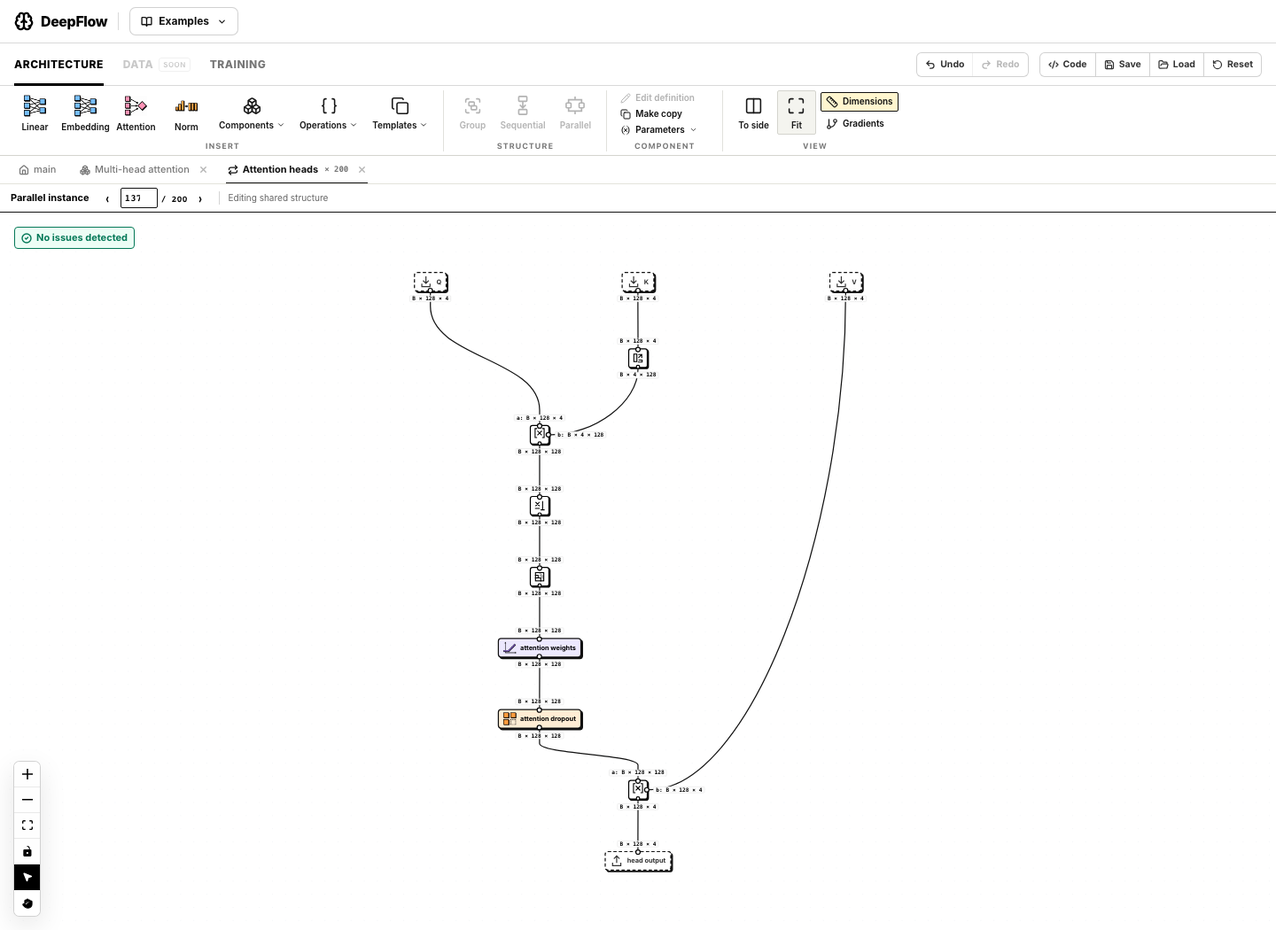
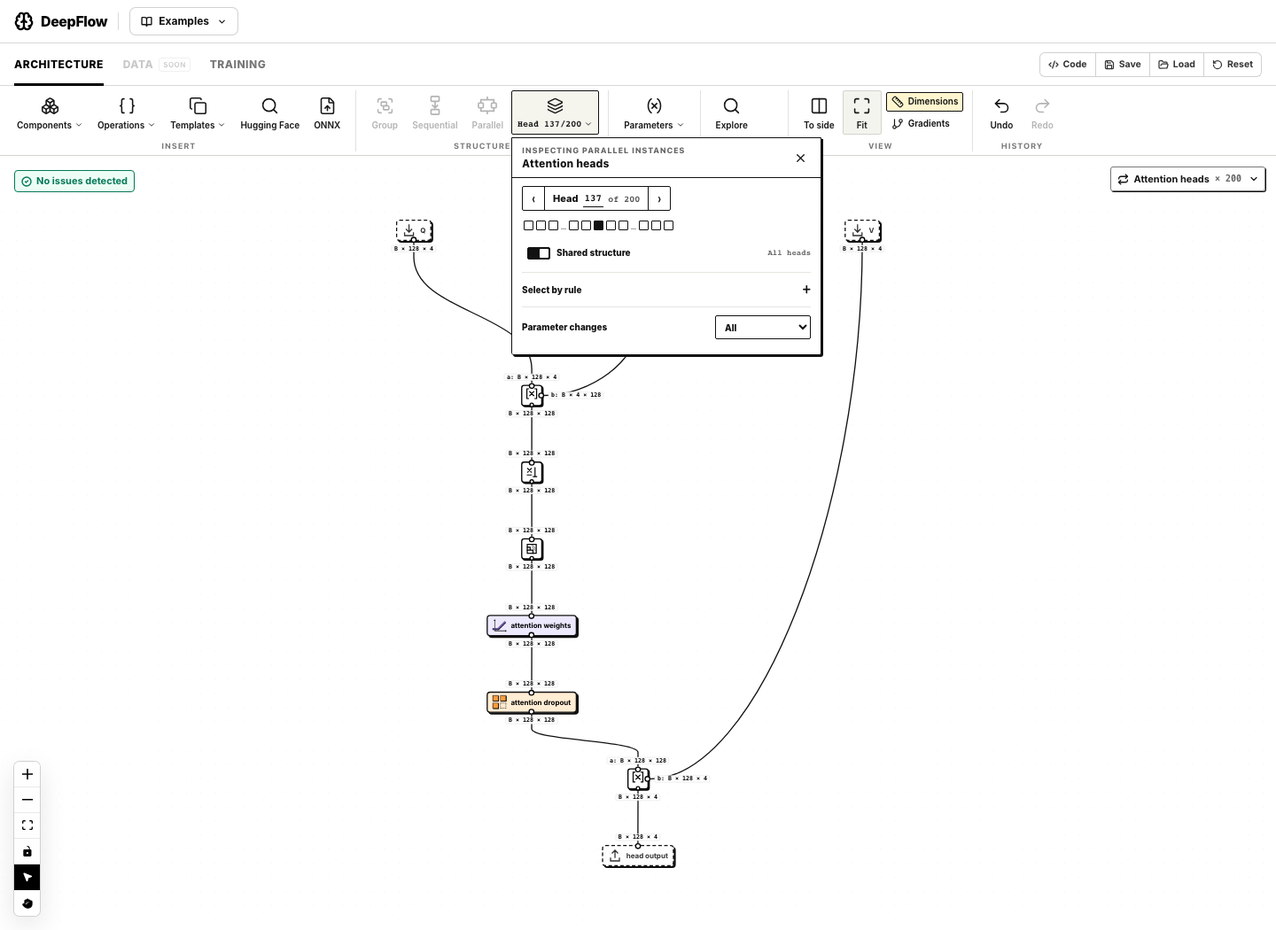
Move repeat instance controls into Structure ribbon

diff --git a/src/components/architecture/repeat-iteration.css b/src/components/architecture/repeat-iteration.css
@@ -1,55 +1,71 @@
-/* Navigator, instance strip, then the change scope, kept together. */
-.df-iteration-bar { display: flex; align-items: center; gap: 8px; flex-wrap: wrap; min-height: 34px; padding: 4px 12px; border-bottom: 1px solid #111; background: #fff; font-size: 11px; }
-.df-iteration-bar.is-local { background: #fffbe6; box-shadow: inset 3px 0 0 #111; }
-.df-iteration-counter { display: inline-flex; align-items: center; border: 1px solid #111; border-radius: 2px; background: #fff; }
-.df-iteration-counter > button { display: grid; place-items: center; width: 22px; height: 24px; padding: 0; font: bold 16px/1 ui-monospace, monospace; }
+/* Repeat controls live in Structure and consume no canvas height. */
+.df-ribbon-instance-button { min-width: 86px; }
+.df-ribbon-instance-button > span { font: 800 10px/1.1 ui-monospace, monospace; }
+.df-ribbon-instance-button.is-local { background: #fff6cf; }
+.df-ribbon-instance-button .df-iteration-button-error { color: #aa1d14; }
+.df-iteration-popover { overflow-y: auto; }
+.df-iteration-panel { width: 100%; min-width: 0; background: #fff; font-size: 11px; }
+.df-iteration-panel.is-local { box-shadow: inset 3px 0 0 #eab308; }
+.df-iteration-heading { display: flex; align-items: center; justify-content: space-between; gap: 10px; padding: 9px 11px 8px; border-bottom: 1px solid #111; }
+.df-iteration-heading > div { display: grid; min-width: 0; gap: 2px; }
+.df-iteration-heading span { color: #666; font: 800 9px/1.2 ui-sans-serif, system-ui, sans-serif; text-transform: uppercase; letter-spacing: .06em; }
+.df-iteration-heading strong { overflow: hidden; color: #111; font: 800 12px/1.2 ui-sans-serif, system-ui, sans-serif; white-space: nowrap; text-overflow: ellipsis; }
+.df-iteration-heading button { display: grid; place-items: center; flex: 0 0 23px; height: 23px; border: 1px solid transparent; border-radius: 2px; }
+.df-iteration-heading button:hover { border-color: #111; background: #fff6cf; }
+.df-iteration-body { padding: 0 11px 8px; }
+.df-iteration-section { padding: 9px 0; border-bottom: 1px solid #e5e5df; }
+.df-iteration-section:last-of-type { border-bottom: 0; }
+.df-iteration-navigation { display: grid; gap: 9px; }
+.df-iteration-counter { display: inline-flex; align-items: center; width: fit-content; border: 1px solid #111; border-radius: 2px; background: #fff; }
+.df-iteration-counter > button { display: grid; place-items: center; width: 25px; height: 26px; padding: 0; font: bold 16px/1 ui-monospace, monospace; }
 .df-iteration-counter > button:first-child { border-right: 1px solid #111; }
 .df-iteration-counter > button:last-child { border-left: 1px solid #111; }
 .df-iteration-counter > button:hover:not(:disabled) { background: #fff6cf; }
 .df-iteration-counter > button:disabled { color: #bbb; cursor: default; }
-.df-iteration-title { display: inline-flex; align-items: center; gap: 4px; padding: 0 7px; font-weight: 700; white-space: nowrap; }
-.df-iteration-title input { box-sizing: content-box; width: 3ch; height: 18px; padding: 0 2px; border: 0; border-bottom: 1px solid #111; background: transparent; font: 700 11px/18px ui-monospace, monospace; text-align: center; -moz-appearance: textfield; }
+.df-iteration-title { display: inline-flex; align-items: center; gap: 5px; padding: 0 9px; font-weight: 800; white-space: nowrap; }
+.df-iteration-title input { box-sizing: content-box; width: 3ch; height: 19px; padding: 0 2px; border: 0; border-bottom: 1px solid #111; background: transparent; font: 800 11px/19px ui-monospace, monospace; text-align: center; -moz-appearance: textfield; }
 .df-iteration-title input::-webkit-inner-spin-button, .df-iteration-title input::-webkit-outer-spin-button { -webkit-appearance: none; margin: 0; }
 .df-iteration-title input:focus { outline: 1px solid #111; outline-offset: 1px; }
-.df-iteration-title > span { font: 600 10px/1 ui-monospace, monospace; color: #555; }
-.df-iteration-strip { display: flex; align-items: center; gap: 3px; min-width: 0; }
+.df-iteration-title > span { font: 700 10px/1 ui-monospace, monospace; color: #555; }
+.df-iteration-strip { display: flex; align-items: center; flex-wrap: wrap; gap: 5px 3px; min-width: 0; padding: 2px; }
 .df-iteration-slot { display: inline-flex; align-items: center; gap: 3px; }
-.df-iteration-strip button { width: 10px; height: 10px; padding: 0; border: 1px solid #111; border-radius: 1px; background: #fff; cursor: pointer; }
+.df-iteration-strip button { width: 11px; height: 11px; padding: 0; border: 1px solid #111; border-radius: 1px; background: #fff; cursor: pointer; }
 .df-iteration-strip button:hover { background: #e7e5e4; }
 .df-iteration-strip button.is-own { background: #fde68a; }
 .df-iteration-strip button.is-current { background: #111; }
 .df-iteration-strip button.is-current.is-own { background: #fde68a; box-shadow: inset 0 0 0 2px #111; }
 .df-iteration-strip button.is-selected { outline: 2px solid #ef5c2f; outline-offset: 2px; }
-.df-iteration-strip button.is-current.is-selected { outline-color: #ef5c2f; }
 .df-iteration-strip button:focus-visible { outline: 2px solid #2563eb; outline-offset: 1px; }
-.df-iteration-gap { font: 700 10px/1 ui-monospace, monospace; color: #777; }
-.df-iteration-rule-anchor { position: relative; flex: 0 0 auto; }
-.df-iteration-rule-trigger { min-height: 26px; padding: 3px 7px; border: 1px solid #111; border-radius: 2px; background: #fff; font-size: 10px; font-weight: 800; white-space: nowrap; }
-.df-iteration-rule-trigger:hover, .df-iteration-rule-trigger.has-selection { background: #fff0b5; }
-.df-iteration-rule-panel { position: absolute; z-index: 60; top: calc(100% + 5px); left: 0; box-sizing: border-box; width: min(330px, calc(100vw - 32px)); padding: 10px; border: 2px solid #111; border-radius: 3px; background: #fff; box-shadow: 4px 4px 0 #111; }
-.df-iteration-rule-panel > label { display: block; margin-bottom: 6px; font-size: 10px; font-weight: 800; text-transform: uppercase; }
-.df-iteration-rule-panel > input { box-sizing: border-box; width: 100%; min-height: 30px; padding: 5px 7px; border: 1px solid #111; border-radius: 2px; font: 700 11px/1.3 ui-monospace, monospace; }
-.df-iteration-rule-panel > input:focus { outline: 2px solid #ef5c2f; outline-offset: 1px; }
-.df-iteration-rule-completions { display: grid; position: absolute; z-index: 1; top: 65px; right: 10px; left: 10px; border: 1px solid #111; background: #fff; box-shadow: 2px 2px 0 #111; }
-.df-iteration-rule-completions button { padding: 4px 7px; text-align: left; font: 700 10px/1.3 ui-monospace, monospace; }
-.df-iteration-rule-completions button:hover { background: #fff0b5; }
-.df-iteration-rule-help { margin: 6px 0 8px; color: #555; font: 10px/1.35 ui-monospace, monospace; }
-.df-iteration-rule-footer { display: flex; align-items: center; flex-wrap: wrap; gap: 5px; }
-.df-iteration-rule-footer strong { flex: 1 1 130px; font: 800 10px/1.3 ui-monospace, monospace; }
-.df-iteration-rule-footer strong.is-error { color: #aa1d14; }
-.df-iteration-rule-footer button { padding: 4px 7px; border: 1px solid #111; border-radius: 2px; background: #fff; font-size: 10px; font-weight: 800; }
-.df-iteration-rule-footer button:hover:not(:disabled) { background: #fff0b5; }
-.df-iteration-rule-footer button:disabled { opacity: .45; cursor: default; }
-.df-iteration-apply { display: inline-flex; align-items: center; gap: 5px; font-size: 10px; font-weight: 800; white-space: nowrap; }
-.df-iteration-apply select { box-sizing: border-box; min-height: 26px; max-width: 115px; padding: 2px 18px 2px 6px; border: 1px solid #111; border-radius: 2px; background: #fff; font-size: 10px; font-weight: 800; }
-.df-iteration-apply select:focus-visible { outline: 2px solid #2563eb; outline-offset: 1px; }
-.df-iteration-edit-error { flex-basis: 100%; color: #aa1d14; font-size: 10px; font-weight: 800; }
-.df-iteration-toggle { display: inline-flex; align-items: center; gap: 7px; position: relative; margin-left: 4px; padding: 3px 6px; border: 1px solid transparent; border-radius: 2px; font-size: 10px; font-weight: 700; color: #111; white-space: nowrap; }
-.df-iteration-toggle::before { content: ''; position: absolute; left: -10px; top: 3px; bottom: 3px; border-left: 1px solid #d4d4ce; }
+.df-iteration-gap { font: 800 10px/1 ui-monospace, monospace; color: #777; }
+.df-iteration-structure { display: flex; align-items: center; justify-content: space-between; gap: 8px; padding-top: 2px; }
+.df-iteration-toggle { display: inline-flex; align-items: center; gap: 7px; min-height: 25px; padding: 3px 5px; border: 1px solid transparent; border-radius: 2px; font-size: 10px; font-weight: 800; white-space: nowrap; }
 .df-iteration-toggle:hover { border-color: #d4d4ce; background: #f4f4ef; }
 .df-iteration-toggle:focus-visible { outline: 2px solid #2563eb; outline-offset: 1px; }
+.df-iteration-toggle[aria-checked="false"] { color: #555; }
 .df-iteration-switch { position: relative; width: 26px; height: 14px; border: 1px solid #111; border-radius: 2px; background: #fff; flex-shrink: 0; }
 .df-iteration-switch::after { content: ''; position: absolute; top: 1px; left: 1px; width: 10px; height: 10px; border-radius: 1px; background: #111; transition: transform 120ms ease; }
 .df-iteration-toggle[aria-checked="true"] .df-iteration-switch { background: #111; }
 .df-iteration-toggle[aria-checked="true"] .df-iteration-switch::after { background: #fff; transform: translateX(12px); }
-.df-iteration-toggle[aria-checked="false"] { color: #555; }
+.df-iteration-structure-status { color: #666; font: 700 9px/1.2 ui-monospace, monospace; white-space: nowrap; }
+.df-iteration-rule-trigger { display: flex; align-items: center; justify-content: space-between; width: 100%; padding: 2px 0; color: #111; font-size: 10px; font-weight: 800; text-align: left; }
+.df-iteration-rule-trigger:hover, .df-iteration-rule-trigger.has-selection { color: #9a4a0c; }
+.df-iteration-rule-trigger span { font: 800 16px/1 ui-monospace, monospace; }
+.df-iteration-rule-panel { position: relative; display: grid; gap: 5px; padding: 9px 0 0; }
+.df-iteration-rule-panel > label { font-size: 9px; font-weight: 800; text-transform: uppercase; }
+.df-iteration-rule-panel > input { box-sizing: border-box; width: 100%; min-height: 29px; padding: 5px 7px; border: 1px solid #111; border-radius: 2px; font: 700 11px/1.3 ui-monospace, monospace; }
+.df-iteration-rule-panel > input:focus { outline: 2px solid #ef5c2f; outline-offset: 1px; }
+.df-iteration-rule-completions { display: grid; position: absolute; z-index: 2; top: 48px; right: 0; left: 0; border: 1px solid #111; background: #fff; box-shadow: 2px 2px 0 #111; }
+.df-iteration-rule-completions button { padding: 5px 7px; text-align: left; font: 700 10px/1.3 ui-monospace, monospace; }
+.df-iteration-rule-completions button:hover { background: #fff0b5; }
+.df-iteration-rule-help { margin: 0; color: #666; font: 9px/1.4 ui-monospace, monospace; }
+.df-iteration-rule-footer { display: flex; align-items: center; flex-wrap: wrap; gap: 5px; }
+.df-iteration-rule-footer strong { flex: 1 1 120px; font: 800 10px/1.3 ui-monospace, monospace; }
+.df-iteration-rule-footer strong.is-error { color: #aa1d14; }
+.df-iteration-rule-footer button { padding: 4px 7px; border: 1px solid #111; border-radius: 2px; background: #fff; font-size: 10px; font-weight: 800; }
+.df-iteration-rule-footer button:hover:not(:disabled) { background: #fff0b5; }
+.df-iteration-rule-footer button:disabled { opacity: .45; cursor: default; }
+.df-iteration-apply { display: flex; align-items: center; justify-content: space-between; gap: 10px; font-size: 10px; font-weight: 800; }
+.df-iteration-apply select { box-sizing: border-box; min-height: 27px; min-width: 100px; max-width: 145px; padding: 2px 19px 2px 6px; border: 1px solid #111; border-radius: 2px; background: #fff; font-size: 10px; font-weight: 800; }
+.df-iteration-apply select:focus-visible { outline: 2px solid #2563eb; outline-offset: 1px; }
+.df-iteration-edit-error { margin: 0; padding-top: 7px; color: #aa1d14; font-size: 10px; font-weight: 800; }
+@media (max-width: 930px) { .df-ribbon-instance-button { min-width: 70px; } }

diff --git a/src/components/architecture/RepeatIterationBar.jsx b/src/components/architecture/RepeatIterationBar.jsx
@@ -1,18 +1,11 @@
 import { useMemo, useRef, useState } from 'react';
+import { X } from 'lucide-react';
 import { useValidationContext } from '../../hooks/useValidation.js';
 import { repeatRuleSuggestions, selectRepeatInstances } from '../../domain/architecture/repeatRule.js';
 import { useArchitectureStore } from '../../stores/architectureStore.js';
 import { useTemplatesStore } from '../../stores/templatesStore.js';
+import { instanceNoun, pluralOf } from './repeatLabels.js';
 import './repeat-iteration.css';
-
-/** "Attention heads" → head, "Transformer blocks" → block; otherwise instance/step. */
-function instanceNoun(label, mode) {
-    const word = String(label ?? '').trim().split(/\s+/).at(-1)?.toLowerCase() ?? '';
-    if (/^[a-z]{3,}ies$/.test(word)) return `${word.slice(0, -3)}y`;
-    if (/^[a-z]{3,}s$/.test(word) && !/ss$/.test(word)) return word.slice(0, -1);
-    return mode === 'parallel' ? 'instance' : 'step';
-}
-const pluralOf = (noun) => (noun.endsWith('y') ? `${noun.slice(0, -1)}ies` : `${noun}s`);
 
 /** Every instance when few; otherwise both ends and the neighbourhood of the current one. */
 function stripIndices(count, index) {
@@ -22,7 +15,7 @@ function stripIndices(count, index) {
     return [...picked].sort((a, b) => a - b);
 }
 
-export default function RepeatIterationBar() {
+export default function RepeatIterationBar({ onClose }) {
     const context = useValidationContext();
     const graph = useArchitectureStore((s) => s.graph);
     const templates = useTemplatesStore((s) => s.templates);
@@ -86,30 +79,46 @@ export default function RepeatIterationBar() {
         setCaret(start + name.length);
         inputRef.current?.focus();
     };
-    return (
-        <div className={`df-iteration-bar${scope.local ? ' is-local' : ''}`}>
-            <div className="df-iteration-counter">
-                <button type="button" aria-label="Previous instance" disabled={repeat.index === 0} onClick={() => select(repeat.index - 1)}>‹</button>
-                <label className="df-iteration-title">{Noun}
-                    <input aria-label="Inspected instance number" type="number" min="1" max={Math.max(1, repeat.count)} value={number} onChange={(event) => select(Number(event.target.value) - 1)} />
-                    <span>of {repeat.count}</span>
-                </label>
-                <button type="button" aria-label="Next instance" disabled={repeat.index >= repeat.count - 1} onClick={() => select(repeat.index + 1)}>›</button>
-            </div>
-            <div className="df-iteration-strip" role="group" aria-label={`${plural} of ${repeat.label}`}>
-                {indices.map((i, at) => <span key={i} className="df-iteration-slot">
-                    {at > 0 && i - indices[at - 1] > 1 && <span className="df-iteration-gap" aria-hidden="true">…</span>}
-                    <button type="button" aria-label={`${Noun} ${i + 1}${highlighted.has(i) ? ', selected by rule' : ''}${own(i) ? ', own structure' : ''}`}
-                        aria-current={i === repeat.index ? 'true' : undefined}
-                        className={`${i === repeat.index ? 'is-current' : ''}${own(i) ? ' is-own' : ''}${highlighted.has(i) ? ' is-selected' : ''}`}
-                        title={`${Noun} ${i + 1}${highlighted.has(i) ? ' · selected by rule' : ''}${own(i) ? ' · has its own structure' : ''}`} onClick={() => select(i)} />
-                </span>)}
-            </div>
-            <div className="df-iteration-rule-anchor">
+    return <div className={`df-iteration-panel${scope.local ? ' is-local' : ''}`} role="dialog" aria-label={`${repeat.label} instances`}>
+        <header className="df-iteration-heading">
+            <div><span>Inspecting {repeat.mode === 'parallel' ? 'parallel instances' : 'sequence'}</span><strong>{repeat.label}</strong></div>
+            <button type="button" onClick={onClose} aria-label="Close instance controls"><X size={15} /></button>
+        </header>
+        <div className="df-iteration-body">
+            <section className="df-iteration-section df-iteration-navigation" aria-label="Current instance">
+                <div className="df-iteration-counter">
+                    <button type="button" aria-label="Previous instance" disabled={repeat.index === 0} onClick={() => select(repeat.index - 1)}>‹</button>
+                    <label className="df-iteration-title">{Noun}
+                        <input aria-label="Inspected instance number" type="number" min="1" max={Math.max(1, repeat.count)} value={number} onChange={(event) => select(Number(event.target.value) - 1)} />
+                        <span>of {repeat.count}</span>
+                    </label>
+                    <button type="button" aria-label="Next instance" disabled={repeat.index >= repeat.count - 1} onClick={() => select(repeat.index + 1)}>›</button>
+                </div>
+                <div className="df-iteration-strip" role="group" aria-label={`${plural} of ${repeat.label}`}>
+                    {indices.map((i, at) => <span key={i} className="df-iteration-slot">
+                        {at > 0 && i - indices[at - 1] > 1 && <span className="df-iteration-gap" aria-hidden="true">…</span>}
+                        <button type="button" aria-label={`${Noun} ${i + 1}${highlighted.has(i) ? ', selected by rule' : ''}${own(i) ? ', own structure' : ''}`}
+                            aria-current={i === repeat.index ? 'true' : undefined}
+                            className={`${i === repeat.index ? 'is-current' : ''}${own(i) ? ' is-own' : ''}${highlighted.has(i) ? ' is-selected' : ''}`}
+                            title={`${Noun} ${i + 1}${highlighted.has(i) ? ' · selected by rule' : ''}${own(i) ? ' · has its own structure' : ''}`} onClick={() => select(i)} />
+                    </span>)}
+                </div>
+                <div className="df-iteration-structure">
+                    <button type="button" role="switch" aria-checked={!scope.local} className="df-iteration-toggle"
+                        onClick={() => setStructureScope(scope.local ? 'shared' : 'local', repeat.path)}
+                        title={scope.local
+                            ? `${noun} ${number} has its own structure. Switch to the shared definition; the private copy is saved.`
+                            : `${noun} ${number} uses the shared structure. Switch to a private definition for this instance.`}>
+                        <span className="df-iteration-switch" aria-hidden="true" />Shared structure
+                    </button>
+                    <span className="df-iteration-structure-status">{scope.local ? 'Only this instance' : `All ${plural}`}</span>
+                </div>
+            </section>
+            <section className="df-iteration-section">
                 <button type="button" className={`df-iteration-rule-trigger${selected.size ? ' has-selection' : ''}`} aria-expanded={ruleOpen}
-                    onClick={() => setRuleOpen((open) => !open)}>Select by rule{selected.size ? ` · ${selected.size}` : ''}</button>
+                    onClick={() => setRuleOpen((open) => !open)}>Select by rule{selected.size ? ` · ${selected.size}` : ''}<span aria-hidden="true">{ruleOpen ? '−' : '+'}</span></button>
                 {ruleOpen && <div className="df-iteration-rule-panel" role="group" aria-label="Select instances by rule">
-                    <label htmlFor="df-repeat-rule">Select by rule</label>
+                    <label htmlFor="df-repeat-rule">Rule</label>
                     <input id="df-repeat-rule" ref={inputRef} aria-label="Instance selection rule" value={rule}
                         placeholder="position % 2 == 0" spellCheck={false}
                         onChange={(event) => { setRule(event.target.value); setCaret(event.target.selectionStart ?? event.target.value.length); }}
@@ -124,7 +133,7 @@ export default function RepeatIterationBar() {
                         {completions.map((name) => <button key={name} type="button" role="option" aria-selected="false"
                             onMouseDown={(event) => event.preventDefault()} onClick={() => complete(name)}>{name}</button>)}
                     </div>}
-                    <p className="df-iteration-rule-help">position starts at 1. Use numeric local.* or global.* values.</p>
+                    <p className="df-iteration-rule-help">position starts at 1 · use numeric local.* or global.* values</p>
                     <div className="df-iteration-rule-footer">
                         <strong className={preview.error ? 'is-error' : ''}>{preview.error ?? `${preview.indices.length} of ${repeat.count} in preview`}</strong>
                         <button type="button" disabled={!!preview.error || !preview.indices.length} onClick={() => {
@@ -133,22 +142,17 @@ export default function RepeatIterationBar() {
                         {!!selection?.indices.length && <button type="button" onClick={() => { setRepeatSelection(repeat.path, [], ''); setRule(''); }}>Clear</button>}
                     </div>
                 </div>}
-            </div>
-            <label className="df-iteration-apply">Parameter changes
-                <select aria-label="Apply parameter changes to" value={mode} onChange={(event) => setRepeatEditMode(repeat.path, event.target.value)}>
-                    <option value="current">Current</option>
-                    <option value="selected" disabled={!selected.size}>Selected ({selected.size})</option>
-                    <option value="all">All</option>
-                </select>
-            </label>
-            <button type="button" role="switch" aria-checked={!scope.local} className="df-iteration-toggle"
-                onClick={() => setStructureScope(scope.local ? 'shared' : 'local', repeat.path)}
-                title={scope.local
-                    ? `${noun} ${number} has its own structure. Switch to the shared definition; the private copy is saved.`
-                    : `${noun} ${number} uses the shared structure. Switch to a private definition for this instance.`}>
-                <span className="df-iteration-switch" aria-hidden="true" />Shared structure
-            </button>
-            {editError?.pathKey === pathKey && <span className="df-iteration-edit-error" role="alert">{editError.message}</span>}
+            </section>
+            <section className="df-iteration-section df-iteration-editing">
+                <label className="df-iteration-apply">Parameter changes
+                    <select aria-label="Apply parameter changes to" value={mode} onChange={(event) => setRepeatEditMode(repeat.path, event.target.value)}>
+                        <option value="current">Current</option>
+                        <option value="selected" disabled={!selected.size}>Selected ({selected.size})</option>
+                        <option value="all">All</option>
+                    </select>
+                </label>
+            </section>
+            {editError?.pathKey === pathKey && <p className="df-iteration-edit-error" role="alert">{editError.message}</p>}
         </div>
-    );
+    </div>;
 }

diff --git a/src/components/architecture/ArchitectureRibbon.jsx b/src/components/architecture/ArchitectureRibbon.jsx
@@ -1,5 +1,5 @@
 import { useCallback, useEffect, useRef, useState } from 'react';
-import { ArrowUpRight, Boxes, Braces, Check, ChevronDown, Columns2, Copy, FileUp, GitBranch, Group, Maximize, Redo2, Ruler, Search, Undo2, Variable, X } from 'lucide-react';
+import { ArrowUpRight, Boxes, Braces, Check, ChevronDown, Columns2, Copy, FileUp, GitBranch, Group, Layers, Maximize, Redo2, Ruler, Search, Undo2, Variable, X } from 'lucide-react';
 import { resolveGraphLevel } from '../../domain/architecture/index.js';
 import { importHuggingFaceArchitecture } from '../../domain/huggingFace/index.js';
 import { buildEditableOnnxArchitecture } from '../../domain/onnx/editable.js';
@@ -15,10 +15,12 @@ import OnnxImport from '../OnnxImport.jsx';
 import { useOpenToSide } from './OpenToSideContext.jsx';
 import BlockPalette from './BlockPalette.jsx';
 import OptimizationPanel from './OptimizationPanel.jsx';
+import RepeatIterationBar from './RepeatIterationBar.jsx';
+import { instanceNoun } from './repeatLabels.js';
 import TemplateInspector, { GlobalParameters } from './TemplateInspector.jsx';
 import './ribbon.css';
 
-const MENU_WIDTHS = { operations: 350, components: 360, templates: 310, parameters: 350, group: 280 };
+const MENU_WIDTHS = { operations: 350, components: 360, templates: 310, parameters: 350, group: 280, instances: 350 };
 function RepeatIcon({ parallel }) {
     return <svg width="22" height="22" viewBox="0 0 24 24" fill="none" stroke="currentColor" strokeWidth="1.8" strokeLinecap="square" aria-hidden="true">
         {parallel ? <><path d="M12 2v3H4v4m8-4h8v4M4 15v4h16v-4m-8 4v3" /><rect x="1" y="9" width="6" height="6" rx="1" /><rect x="17" y="9" width="6" height="6" rx="1" /></>
@@ -50,6 +52,10 @@ export default function ArchitectureRibbon({ paneId, split, onInsert, onFitView 
     const templates = useTemplatesStore((s) => s.templates);
     const validation = useValidation();
     const validationContext = useValidationContext();
+    const repeat = validationContext?.repeat;
+    const repeatNoun = repeat ? instanceNoun(repeat.label, repeat.mode) : null;
+    const RepeatNoun = repeatNoun ? `${repeatNoun[0].toUpperCase()}${repeatNoun.slice(1)}` : null;
+    const repeatEditError = useArchitectureStore((s) => s.repeatEditError);
     const openToSide = useOpenToSide();
     const [popup, setPopup] = useState(null);
     const [hfOpen, setHfOpen] = useState(false);
@@ -266,6 +272,13 @@ export default function ArchitectureRibbon({ paneId, split, onInsert, onFitView 
                 <RibbonButton icon={Group} disabled={selection.length < 2} aria-label="Group selection into component" aria-expanded={popup === 'group' && selection.length > 1} onClick={(event) => { setGroupName('Component'); togglePopup('group', event); }} title={selection.length > 1 ? 'Group selected blocks into a reusable component' : 'Select at least two blocks to group'}>Group</RibbonButton>
                 <button type="button" className="df-ribbon-button" disabled={!selection.length} aria-label="Repeat selection sequentially" aria-pressed={selectedRepeatMode === 'sequential'} onClick={() => repeatSelection('sequential')} title={selectedRepeatMode === 'sequential' ? 'Return to a single instance' : 'Repeat in sequence; each output feeds the next'}><RepeatIcon /><span>Sequential</span></button>
                 <button type="button" className="df-ribbon-button" disabled={!selection.length} aria-label="Repeat selection in parallel" aria-pressed={selectedRepeatMode === 'parallel'} onClick={() => repeatSelection('parallel')} title={selectedRepeatMode === 'parallel' ? 'Return to a single instance' : 'Repeat in parallel; combine outputs with Concat, Add or Stack'}><RepeatIcon parallel /><span>Parallel</span></button>
+                {repeat && <button type="button" className={`df-ribbon-button df-ribbon-instance-button${validationContext?.levels?.at(-1)?.instance?.structureOverrides?.[String(repeat.index)]?.enabled ? ' is-local' : ''}`}
+                    aria-label={`Inspect ${RepeatNoun} ${repeat.index + 1} of ${repeat.count}`}
+                    aria-expanded={popup === 'instances'} aria-haspopup="dialog" onClick={(event) => togglePopup('instances', event)}
+                    title={`Inspect ${repeat.label}: ${RepeatNoun} ${repeat.index + 1} of ${repeat.count}`}>
+                    <Layers size={19} strokeWidth={1.8} aria-hidden="true" />
+                    <span>{RepeatNoun} {repeat.index + 1}/{repeat.count} <ChevronDown size={10} aria-hidden="true" />{repeatEditError?.pathKey === JSON.stringify(repeat.path) && <b className="df-iteration-button-error" aria-label="Instance edit error">!</b>}</span>
+                </button>}
             </RibbonGroup>
             <RibbonGroup label="Parameters" className="df-ribbon-component">
                 <RibbonButton icon={Variable} aria-label="Edit parameters" aria-expanded={popup === 'parameters'} aria-haspopup="dialog" onClick={(event) => togglePopup('parameters', event)} title="Edit global parameters or parameters of the current component">Parameters <ChevronDown size={10} /></RibbonButton>
@@ -288,7 +301,7 @@ export default function ArchitectureRibbon({ paneId, split, onInsert, onFitView 
             {split && <span className="df-ribbon-pane-cue" aria-live="polite"><ArrowUpRight size={11} />{targetLabel}</span>}
         </div>
         {menu && <div className="df-ribbon-dropdown" style={popoverStyle} data-ribbon-menu={popup} onKeyDown={(event) => { if (event.key !== 'Escape') event.stopPropagation(); }}>
-            <BlockPalette key={popup} section={popup} onAdd={addEntry} onClose={() => closePopup(true)} />
+            <BlockPalette key={popup} section={popup} onAdd={addEntry} onClose={() => closePopup(true)} onDragEnd={() => closePopup(false)} />
         </div>}
         {popup === 'group' && selection.length > 1 && <div className="df-ribbon-popover df-ribbon-popover-group" style={popoverStyle} role="dialog" aria-label="Create component">
             <header><strong>Group {selection.length} {selection.length === 1 ? 'block' : 'blocks'}</strong><button type="button" onClick={() => closePopup(true)} aria-label="Close group editor"><X size={14} /></button></header>
@@ -305,6 +318,9 @@ export default function ArchitectureRibbon({ paneId, split, onInsert, onFitView 
                 <button type="button" className="df-ribbon-parameter-close" onClick={() => closePopup(true)} aria-label="Close parameters"><X size={14} /></button>
             </div>
             {activeParameterScope === 'component' ? <TemplateInspector templateId={templateId} /> : <GlobalParameters />}
+        </div>}
+        {popup === 'instances' && repeat && <div className="df-ribbon-popover df-iteration-popover" style={popoverStyle}>
+            <RepeatIterationBar onClose={() => closePopup(true)} />
         </div>}
         <OptimizationPanel open={optimizationOpen} onClose={closeOptimization} />
         <HuggingFaceImport open={hfOpen} onClose={closeHf} onImport={importHf} currentArchitecture={{

diff --git a/src/components/architecture/ArchitectureWorkspace.jsx b/src/components/architecture/ArchitectureWorkspace.jsx
@@ -6,7 +6,6 @@ import ArchitectureCanvas from './ArchitectureCanvas.jsx';
 import ArchitectureRibbon from './ArchitectureRibbon.jsx';
 import LevelTabs from './LevelTabs.jsx';
 import NodeInspector from './NodeInspector.jsx';
-import RepeatIterationBar from './RepeatIterationBar.jsx';
 import { OpenToSideProvider } from './OpenToSideContext.jsx';
 import { useArchitectureHistoryKeys } from '../../hooks/useArchitectureHistoryKeys.js';
 import './workspace.css';
@@ -56,7 +55,6 @@ function GraphPane({ id, active, onActivate, onClose, registerCommands }) {
             aria-label={id === 'main' ? 'Main graph pane' : 'Side graph pane'}
             tabIndex={-1} onPointerDownCapture={onActivate} onFocusCapture={onActivate}
             onDropCapture={(event) => { onActivate(); event.currentTarget.focus({ preventScroll: true }); }}>
-            <RepeatIterationBar />
             <div className="df-architecture-body">
                 <ArchitectureCanvas paneId={id} keyboardActive={active} overlay={(
                     <>

diff --git a/src/components/architecture/repeatLabels.js b/src/components/architecture/repeatLabels.js
@@ -1,0 +1,9 @@
+/** "Attention heads" → head, "Transformer blocks" → block; otherwise instance/step. */
+export function instanceNoun(label, mode) {
+    const word = String(label ?? '').trim().split(/\s+/).at(-1)?.toLowerCase() ?? '';
+    if (/^[a-z]{3,}ies$/.test(word)) return `${word.slice(0, -3)}y`;
+    if (/^[a-z]{3,}s$/.test(word) && !/ss$/.test(word)) return word.slice(0, -1);
+    return mode === 'parallel' ? 'instance' : 'step';
+}
+
+export const pluralOf = (noun) => (noun.endsWith('y') ? `${noun.slice(0, -1)}ies` : `${noun}s`);
